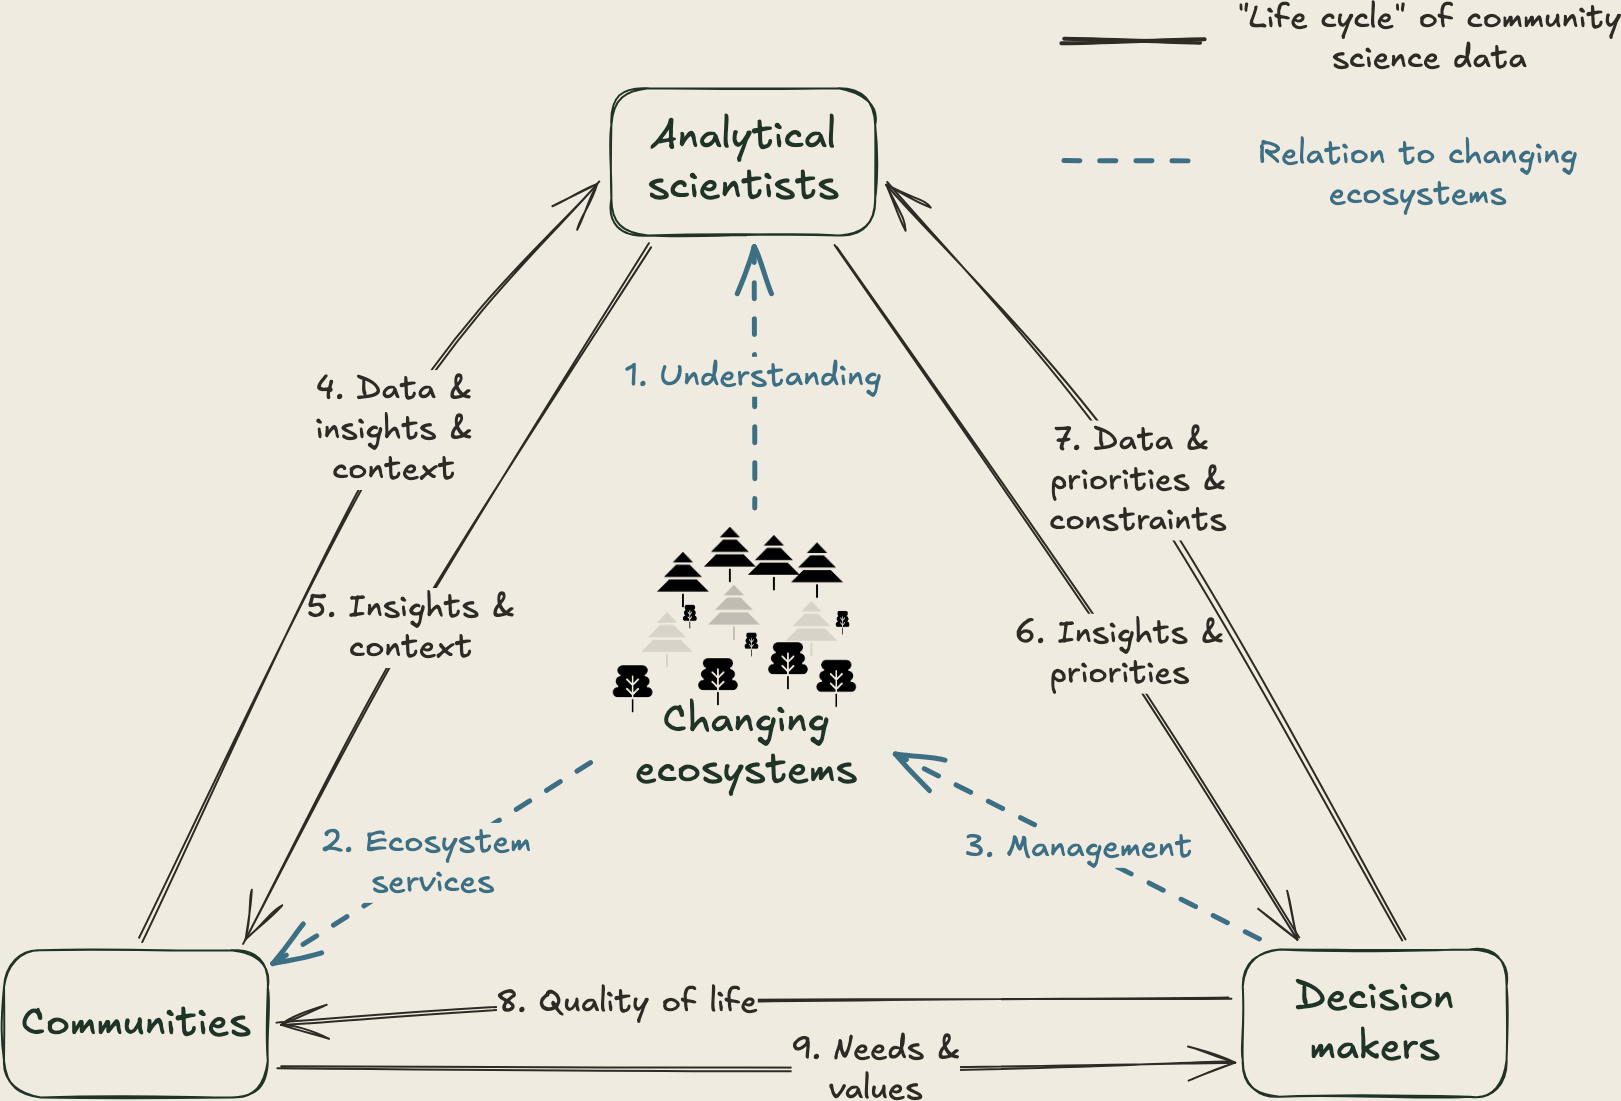
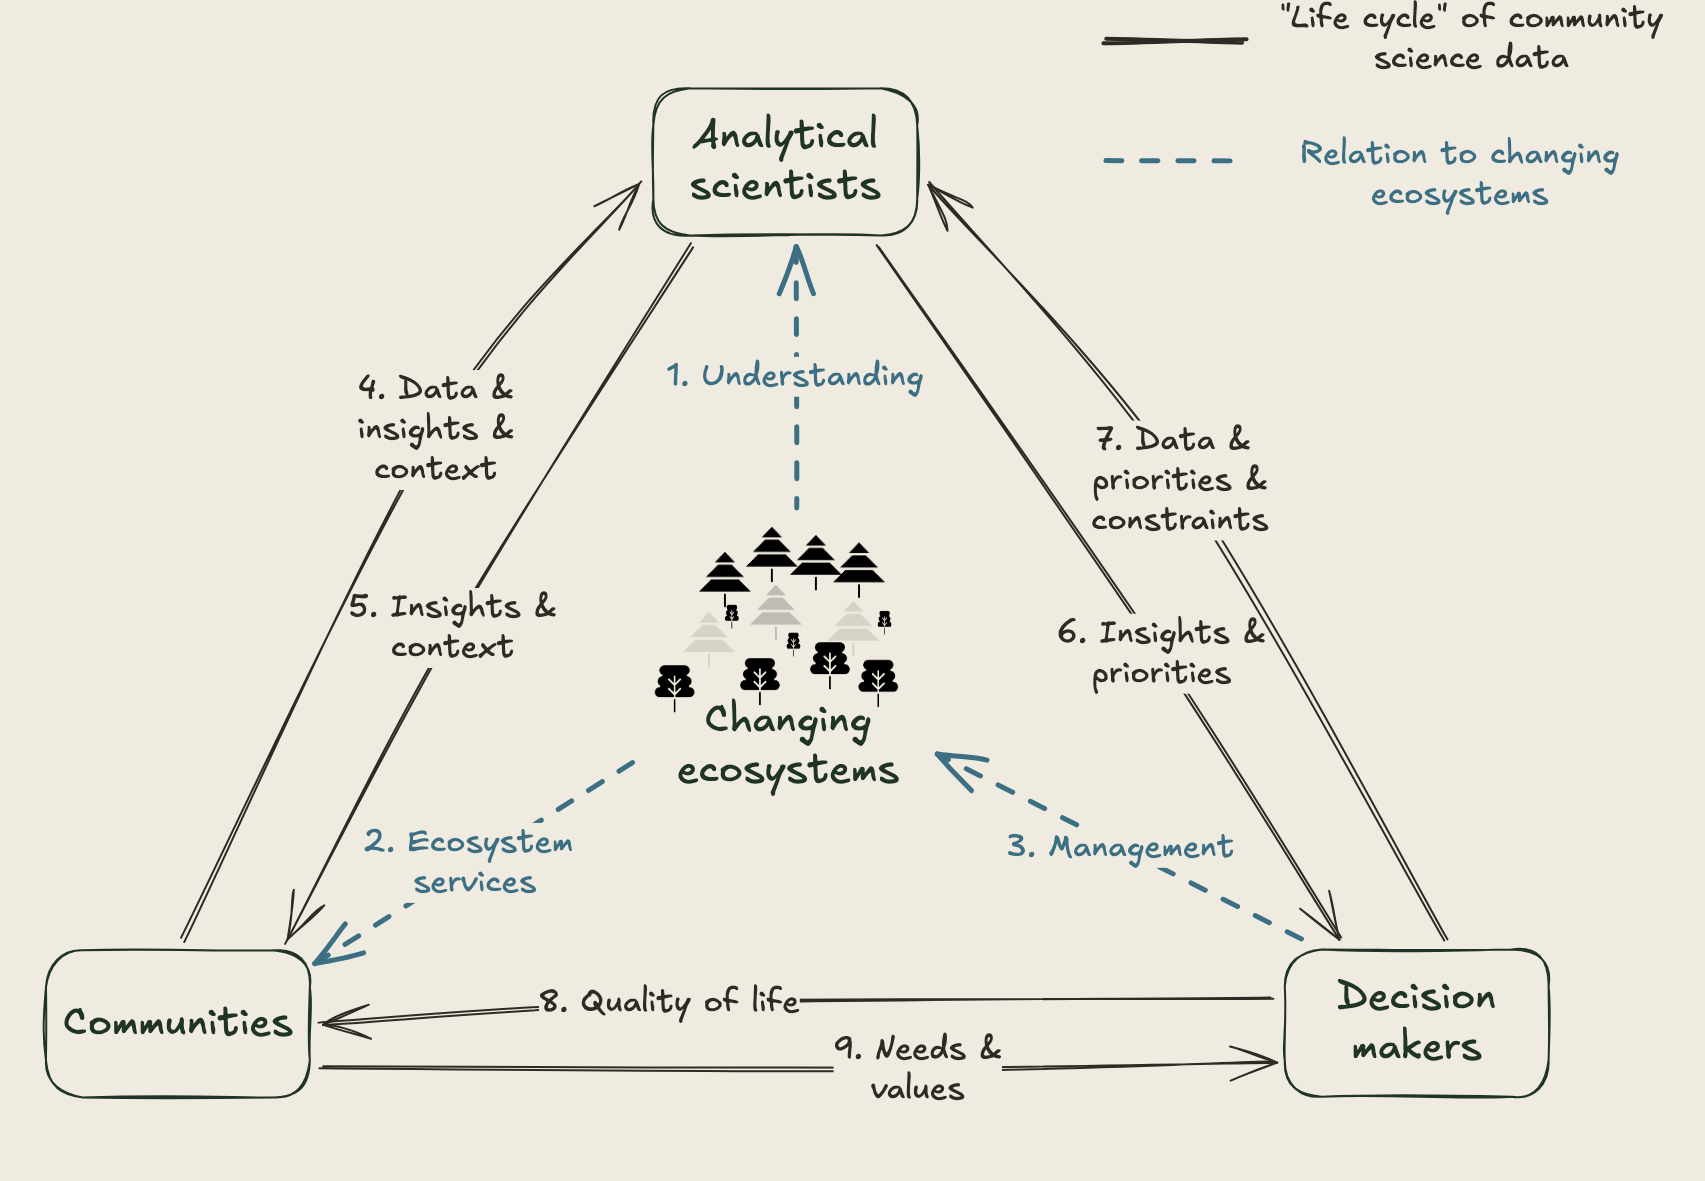
Refactor community science lifecycle image rendering; streamline PNG generation script and update image in index for improved layout and responsiveness.

diff --git a/content/_index.md b/content/_index.md
@@ -18,12 +18,7 @@ sections:
       title: Research Overview
       text: |-
         <figure style="text-align: center; margin: 0 auto 1.5rem auto; max-width: 70%;">
-        <a href="/media/community-science-lifecycle.png" data-fancybox="gallery-vision" data-type="image" data-caption="Fig. 1. Community science data can be a foundation for reciprocal relationships between actors addressing and affected by ecosystem change. Dashed teal arrows show each group's direct relationship to the ecosystem. Solid black arrows trace how data, insights, and priorities pass between scientists, communities, and decision-makers." class="d-inline-block text-decoration-none" style="cursor:zoom-in">
-        <picture>
-          <source media="(min-width: 768px)" srcset="/media/community-science-lifecycle.svg" type="image/svg+xml" />
-          <img src="/media/community-science-lifecycle.png" alt="Conceptual life cycle of community science data" class="img-fluid" style="border:1px solid rgba(47,74,58,0.12);border-radius:4px;box-shadow:0 2px 8px rgba(42,38,34,0.06);padding:6px;background-color:#f0ebe0" width="1705" height="1177" decoding="async" />
-        </picture>
-        </a>
+        <img src="/media/community-science-lifecycle.png" alt="Conceptual life cycle of community science data" class="img-fluid" style="border:1px solid rgba(47,74,58,0.12);border-radius:4px;box-shadow:0 2px 8px rgba(42,38,34,0.06);padding:6px;background-color:#f0ebe0" width="1705" height="1181" loading="lazy" decoding="async" />
         <figcaption class="small text-muted mt-1"><em>Fig. 1. Community science data can be a foundation for reciprocal relationships between actors addressing and affected by ecosystem change. Dashed teal arrows show each group's direct relationship to the ecosystem. Solid warm gray arrows trace how data, insights, and priorities pass between scientists, communities, and decision-makers.</em></figcaption>
         </figure>
 
